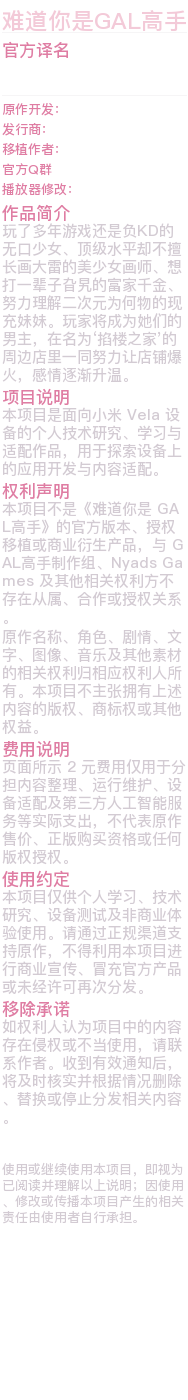
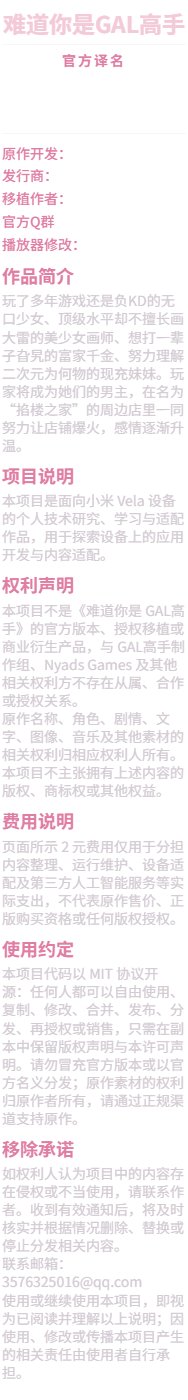
docs: 关于页《使用约定》改为与 MIT 一致的表述
- 使用约定改为 MIT 条款：自由使用/修改/分发，保留版权与许可声明
- 重新渲染 src/common/about-text.png（188x1400，行距对齐已发布版本）

diff --git a/galgaoshou/tools/about-text.html b/galgaoshou/tools/about-text.html
@@ -114,7 +114,7 @@
 
     /* ---------- 作品简介 ---------- */
     .section-title {
-      margin: 14px 0 4px;
+      margin: 10px 0 4px;
       color: var(--pink-label);
       font-size: 18px;
       font-weight: 700;
@@ -125,7 +125,7 @@
       margin: 0;
       color: var(--muted);
       font-size: 14px;
-      line-height: 1.45;
+      line-height: 1.29;   /* 与已发布的 188x1400 about-text.png 行距一致 */
       text-align: left;
       word-break: break-word;
     }
@@ -158,7 +158,7 @@
     <h2 class="section-title">费用说明</h2>
     <p class="description">页面所示 2 元费用仅用于分担内容整理、运行维护、设备适配及第三方人工智能服务等实际支出，不代表原作售价、正版购买资格或任何版权授权。</p>
     <h2 class="section-title">使用约定</h2>
-    <p class="description">本项目仅供个人学习、技术研究、设备测试及非商业体验使用。请通过正规渠道支持原作，不得利用本项目进行商业宣传、冒充官方产品或未经许可再次分发。</p>
+    <p class="description">本项目代码以 MIT 协议开源：任何人都可以自由使用、复制、修改、合并、发布、分发、再授权或销售，只需在副本中保留版权声明与本许可声明。请勿冒充官方版本或以官方名义分发；原作素材的权利归原作者所有，请通过正规渠道支持原作。</p>
     <h2 class="section-title">移除承诺</h2>
     <p class="description">如权利人认为项目中的内容存在侵权或不当使用，请联系作者。收到有效通知后，将及时核实并根据情况删除、替换或停止分发相关内容。</p>
     <p class="description">联系邮箱：3576325016@qq.com</p>
